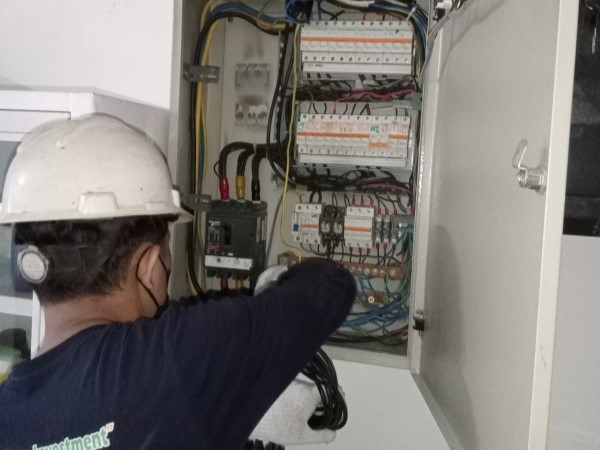
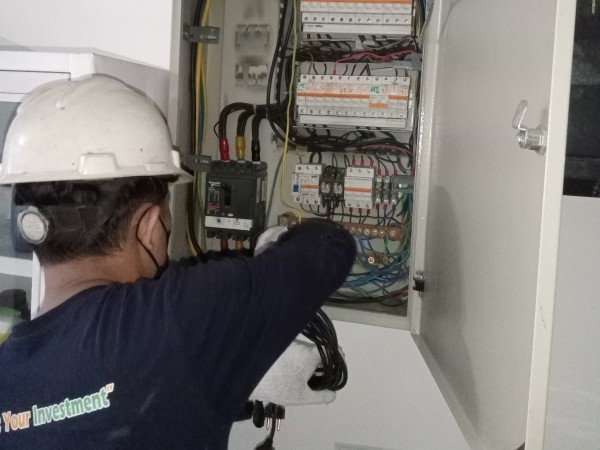
srvc_gal

diff --git a/services.html b/services.html
@@ -149,32 +149,32 @@
       <div class="row">
         <div class="col-lg-4 col-md-6">
           <div class="item">
-            <img src="assets/images/SeongJin.jpg" alt="Seong Jin">
-            <h4>Seong Jin</h4>
+            <img src="assets/images/gal_ykk.jpg" alt="YKK">
+            <h4>YKK</h4>
           </div>
         </div>
         <div class="col-lg-4 col-md-6">
           <div class="item">
-            <img src="assets/images/SeongJin.jpg" alt="Seong Jin">
-            <h4>Seong Jin</h4>
+            <img src="assets/images/gal_sanbe.jpg" alt="Sanbe Farma">
+            <h4>Sanbe Farma</h4>
           </div>
         </div>
         <div class="col-lg-4 col-md-6">
           <div class="item">
-            <img src="assets/images/SeongJin.jpg" alt="Seong Jin">
-            <h4>Seong Jin</h4>
+            <img src="assets/images/gal_tokai.jpg" alt="TOKAI">
+            <h4>TOKAI</h4>
           </div>
         </div>
         <div class="col-lg-4 col-md-6">
           <div class="item">
-            <img src="assets/images/SeongJin.jpg" alt="Seong Jin">
-            <h4>Seong Jin</h4>
+            <img src="assets/images/gal_samudera.jpg" alt="Samudera">
+            <h4>Samudera</h4>
           </div>
         </div>
         <div class="col-lg-4 col-md-6">
           <div class="item">
-            <img src="assets/images/SeongJin.jpg" alt="Seong Jin">
-            <h4>Seong Jin</h4>
+            <img src="assets/images/gal_pembek.jpg" alt="Pemda Bekasi">
+            <h4>Pemda Bekasi</h4>
           </div>
         </div>
         <div class="col-lg-4 col-md-6">
